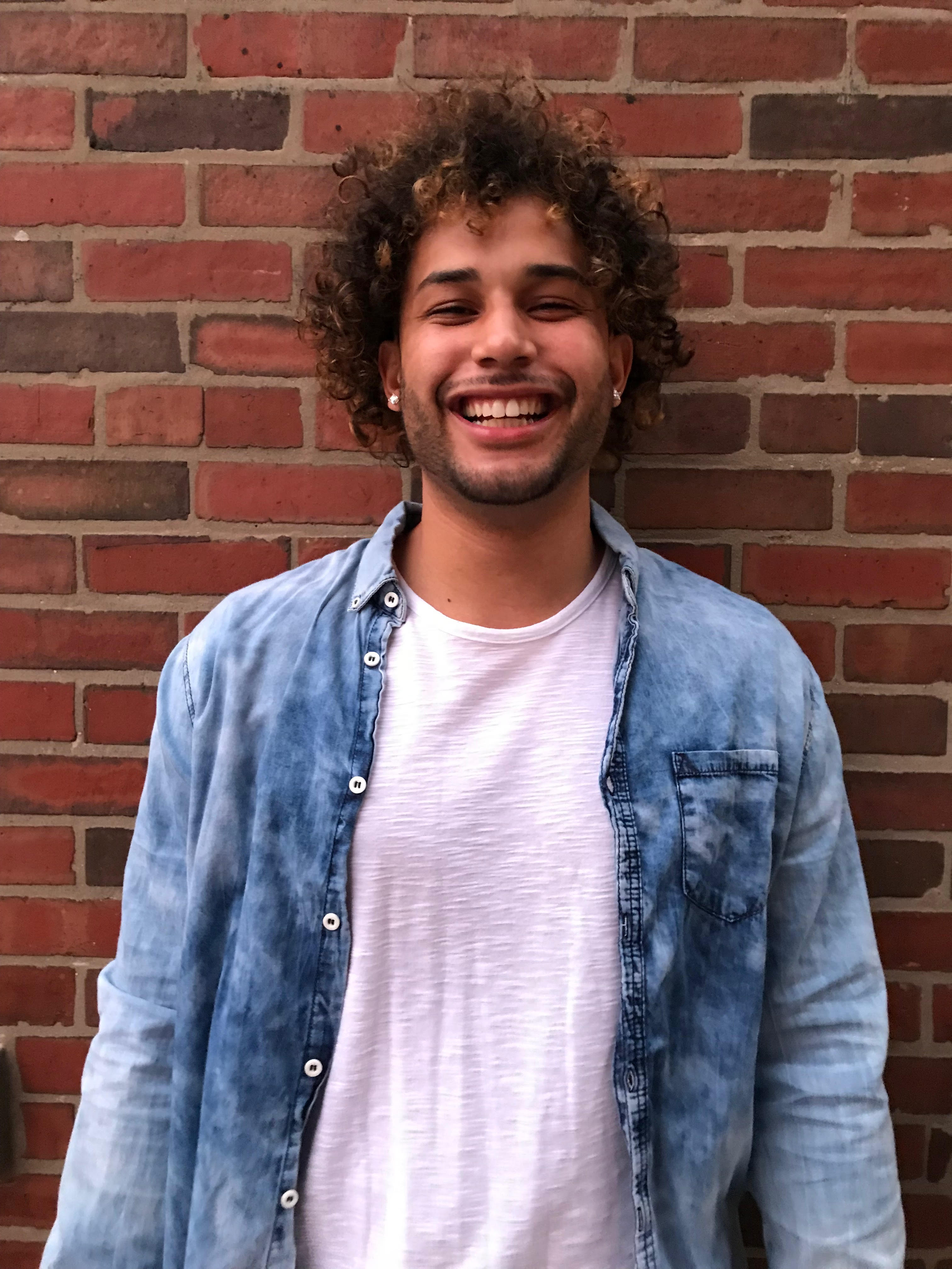
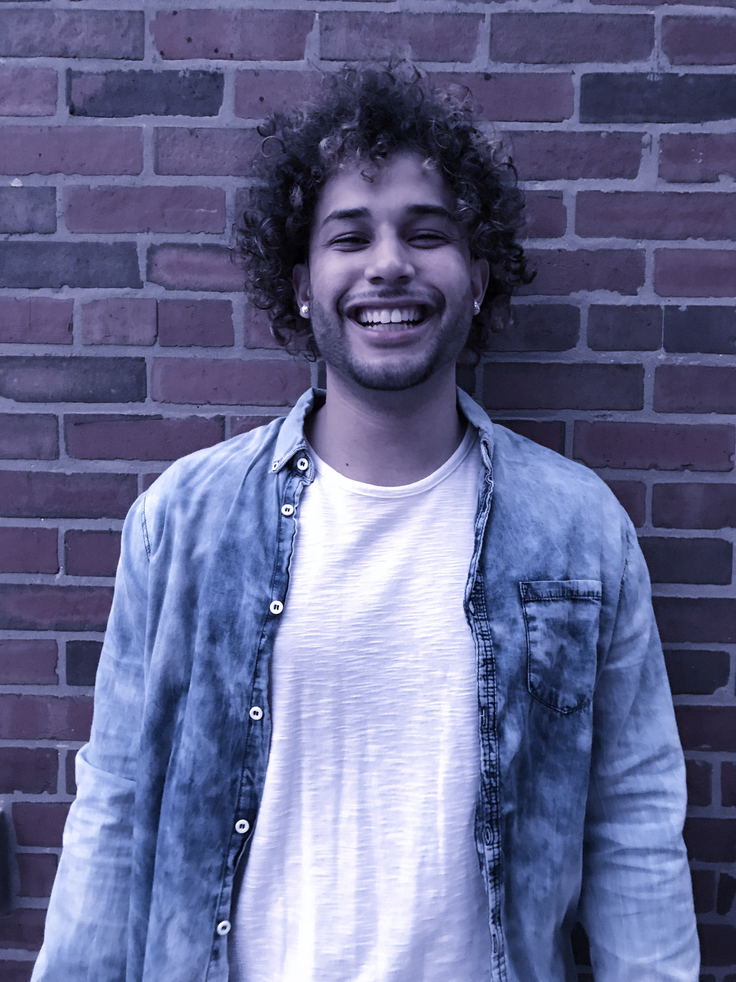
final headshot image

diff --git a/index.html b/index.html
@@ -139,7 +139,7 @@
                             data-paddingbottom="[0,0,0,0]"
                             data-paddingleft="[0,0,0,0]"
 
-                            style="z-index: 8;border-width:0px;"><img src="image/home3/dummy.png" alt="" data-ww="['900px','800','750px','500']" data-hh="['850px','750','750px','500']" width="600" height="1000" data-lazyload="image/headshot3.jpg" data-no-retina> 
+                            style="z-index: 8;border-width:0px;"><img src="image/home3/dummy.png" alt="" data-ww="['900px','800','750px','500']" data-hh="['850px','750','750px','500']" width="600" height="1000" data-lazyload="image/headshot.jpg" data-no-retina> 
                         </div>
 
                         <!-- LAYER NR. 3 -->
